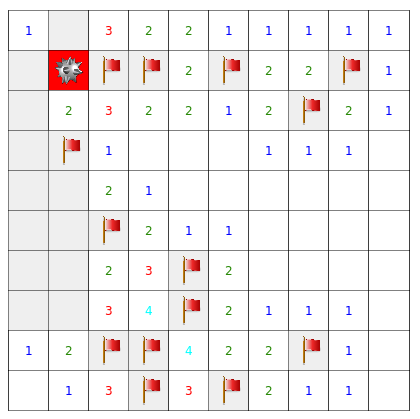
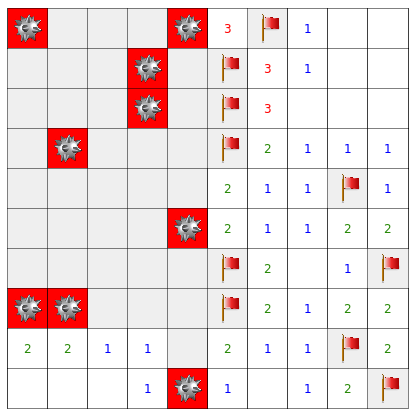
feat : maj

diff --git a/src/partie.ts b/src/partie.ts
@@ -1,6 +1,7 @@
 class Partie {
     private pts:number = 0
     private map:MapDem = null
+    private etat:number = 0;
 
     constructor() {}
 
@@ -13,7 +14,7 @@ class Partie {
 
     public event = (canvas:any):void => {
         canvas.addEventListener('click', e => {
-            this.map.gCases.map(elem => this.eventCase(canvas, e, elem))
+            this.map.gCases.forEach(elem => this.eventCase(canvas, e, elem))
         })
     }
 
@@ -31,7 +32,26 @@ class Partie {
         }   
     }
 
-    public gagner = ():void => {} // a faire !!!
+    public gagner = ():void => {}
 
-    public perdue = ():void => {} // a faire !!!
+    public perdue = ():void => {
+        alert('perdue')
+        this.map.initMap()
+        this.etat = 0
+    }
+
+    public analyse = ():void => {
+        this.map.gCases.forEach(elem => this.toggleAll(elem))
+        if (this.etat === -1)
+            this.perdue()
+    }
+
+    public toggleAll = (elem:Case) => {
+        if (elem.getMine === 1 && elem.getToggle === 1) {
+            this.map.gCases
+            .filter(elem1 => elem1.getMine === 1 && elem1.getFlag === 0)
+            .forEach(elem1 => elem1.toggleCase())
+            this.etat = -1
+        }
+    }
 }

diff --git a/src/map.ts b/src/map.ts
@@ -33,15 +33,13 @@ class MapDem {
         }, 0, [])
     }
 
-    public drawMap = ():void => { this.cases.map(x => x.drawCase()) }
+    public drawMap = ():void => { this.cases.forEach(x => x.drawCase()) }
 
     public evaluerCase = (elem:Case):void => {
         if (elem.getMine === 0){
             elem.setNbMine(this.chercheMine(elem))
             if ( elem.getNbMine === 0 ) this.etandCase(elem)
         }
-        else
-            alert('mine')
     }
 
     public chercheMine = (elem:Case, nbm:number = 0, acc:number = 0):number => {

diff --git a/src/case.ts b/src/case.ts
@@ -28,7 +28,8 @@ class Case {
     public get getY():number { return this.mapy + this.t * this.nby }
     public get getT():number { return this.t }
     public get getMine():number { return this.mine }
-    public get getNbMine():number { return this.nbMine}
+    public get getToggle():number { return this.toggle }
+    public get getNbMine():number { return this.nbMine }
     public get getFlag():number { return this.flag }
     public setNbMine = (nb:number):void => { this.nbMine = nb }
 

diff --git a/src/canvas.ts b/src/canvas.ts
@@ -10,7 +10,7 @@ const draw = ():void => {
     map.drawMap()
 }
 const update = ():void => {
-
+	part.analyse()
 }
 const main = ():void => {
     draw()
